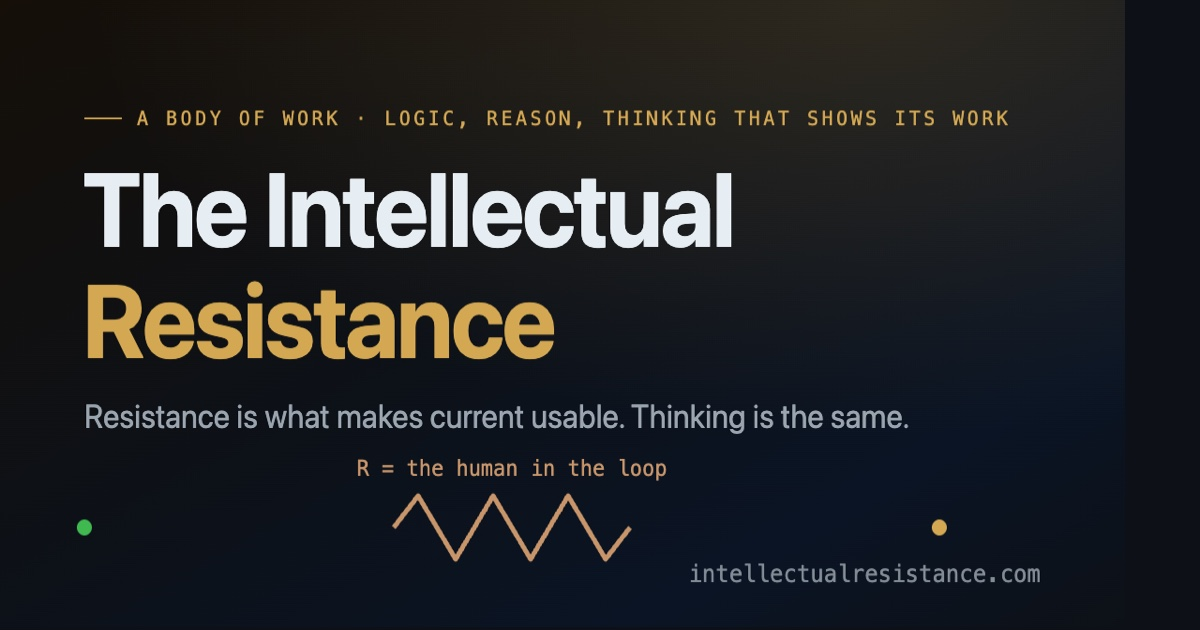
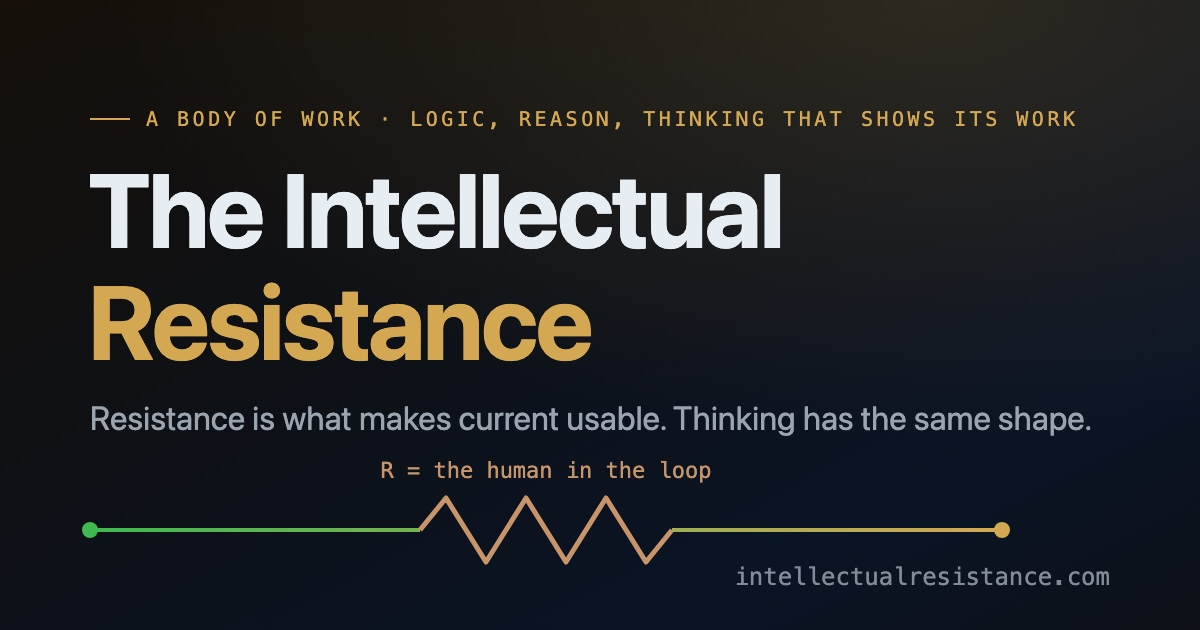
The doorway: the opening marked as an analogy, its wires drawn, Organic Computer described as a datasheet (#10)
The opening says 'Thinking has the same shape.', gains two sentences on an unterminated line, and carries the status label 'Analogy: nothing is derived from it'. The drawing's two wires paint. The Organic Computer card, map line, reference and both text files describe it as a datasheet. The footer carries a dated line linking entry C-20261115-02 in the family corrections index. The social card carries the new sentence and its wires.

diff --git a/index.html b/index.html
@@ -22,7 +22,7 @@
 <meta property="og:url" content="https://intellectualresistance.com/">
 <meta property="og:title" content="The Intellectual Resistance · thinking that shows its work">
 <meta property="og:description" content="A body of work on logic, reason, and thinking that shows its work: preserving signal integrity in a civilization that transmits faster than it verifies.">
-<meta property="og:image" content="https://intellectualresistance.com/assets/og-card.jpg">
+<meta property="og:image" content="https://intellectualresistance.com/assets/og-card.jpg?v=20261115">
 <meta property="og:image:width" content="1200">
 <meta property="og:image:height" content="630">
 <meta property="og:image:type" content="image/jpeg">
@@ -31,7 +31,7 @@
 <meta name="twitter:card" content="summary_large_image">
 <meta name="twitter:title" content="The Intellectual Resistance · thinking that shows its work">
 <meta name="twitter:description" content="Logic, reason, and thinking that shows its work. The Verification Principle, Carrier Color, candidate control levers, the Tetrasemaphore and Star-Centric Transport, each with its math.">
-<meta name="twitter:image" content="https://intellectualresistance.com/assets/og-card.jpg">
+<meta name="twitter:image" content="https://intellectualresistance.com/assets/og-card.jpg?v=20261115">
 <meta name="twitter:image:alt" content="A resistor in a circuit over a dark field: the Intellectual Resistance mark.">
 <style>
 /* ============================================================
@@ -456,13 +456,15 @@ footer .tagline{max-width:60ch;margin:0 auto var(--s4)}
   <div class="container hero-inner">
     <div class="eyebrow">A body of work &middot; logic, reason, thinking that shows its work</div>
     <h1>Resistance is the<br><span class="accent">whole point.</span></h1>
-    <p class="lead">In a circuit, resistance is what makes current <em>usable</em>: it sets the terms and drops the voltage to something that won't burn the system down. Thinking is the same. <b>Friction, doubt, and the deliberate pause before the answer are not the obstacle. They are the work.</b></p>
+    <p class="lead">In a circuit, resistance is what makes current <em>usable</em>: it sets the terms and drops the voltage to something that won't burn the system down. Thinking has the same shape. <b>Friction, doubt, and the deliberate pause before the answer are not the obstacle. They are the work.</b></p>
+    <p class="lead">And a line with no resistor at its end doesn't carry more signal - it rings: the wave reflects, returns over what is still arriving, and the receiver cannot tell the message from its own echo. That is what a mind does with its own prior when nothing stops it.</p>
+    <p><span class="status st-hypothesis">Analogy: nothing is derived from it</span></p>
     <p class="turn">The <b>Intellectual Resistance</b> is the umbrella over a set of frameworks for one problem: how to preserve signal in a civilization that has learned to transmit far faster than it can verify. Each is stated with its math, and labeled honestly for exactly how far it has been proven.</p>
 
     <!-- resistor schematic -->
     <svg class="hero-circuit" viewBox="0 0 760 110" role="img" aria-label="A resistor in a circuit: a raw problem enters as current, passes through the human in the loop, and exits as a usable answer.">
       <defs>
-        <linearGradient id="wire" x1="0" y1="0" x2="1" y2="0">
+        <linearGradient id="wire" gradientUnits="userSpaceOnUse" x1="24" y1="55" x2="736" y2="55">
           <stop offset="0" stop-color="#3fb950"/><stop offset="1" stop-color="#d4a853"/>
         </linearGradient>
       </defs>
@@ -569,7 +571,7 @@ footer .tagline{max-width:60ch;margin:0 auto var(--s4)}
       <article class="fwcard">
         <span class="num">06</span>
         <h3><a href="#applied">Applied: DNS Tool, Calibration Scope &amp; Organic Computer</a></h3>
-        <p>The principle, shipped. DNS Tool runs the verification engine on real infrastructure; Calibration Scope benchmarks what minds (silicon and carbon) can actually do; Organic Computer offers the human substrate directly.</p>
+        <p>The principle, shipped. DNS Tool runs the verification engine on real infrastructure; Calibration Scope benchmarks what minds (silicon and carbon) can actually do; Organic Computer is a datasheet for the human brain.</p>
         <div class="foot"><span class="status st-shipped">Shipped</span><a class="cardlink" href="#applied">read &rarr;</a></div>
       </article>
     </div>
@@ -853,9 +855,9 @@ footer .tagline{max-width:60ch;margin:0 auto var(--s4)}
         <a class="visit" href="https://calibrationscope.com" target="_blank" rel="noopener">Open Calibration Scope &#8599;</a>
       </div>
       <div class="project oc">
-        <div class="kicker">Deep thinking as a service</div>
+        <div class="kicker">Datasheet for the human brain</div>
         <h3>Organic Computer</h3>
-        <p>The human substrate, offered directly. Organic Computer specs the human mind like hardware (an exaflop-scale reasoner<sup><a href="#r15">[15]</a></sup> running on ~20&nbsp;W and a glass of water) and sells the scarcest resource in business: a single mind that will hold one hard problem for hours and reason to its foundations. It is the Intellectual Resistance turned into a practice: metacognition first, AI as instrument never author, every figure sourced.</p>
+        <p>The principle, pointed at the hardware you already own. Organic Computer specs the human brain the way hardware is specced (an exaflop-scale reasoner<sup><a href="#r15">[15]</a></sup> running on ~20&nbsp;W and a glass of water) and sets it beside an exascale supercomputer. The premise is playful. The figures are not. Metacognition first, AI as instrument never author, every figure sourced.</p>
         <a class="visit" href="https://organiccomputer.me" target="_blank" rel="noopener">Open Organic Computer &#8599;</a>
       </div>
     </div>
@@ -904,7 +906,7 @@ footer .tagline{max-width:60ch;margin:0 auto var(--s4)}
       <li id="r3"><span class="srcbadge sb-acad">Bayesian epistemics</span>The &ldquo;regularity&rdquo; requirement that contingent priors lie strictly in (0,1) so that conditionalization can revise them is standard in Bayesian confirmation theory; a prior of 0 or 1 is a fixed point of Bayes&rsquo; rule. See R. Carnap, <em>Logical Foundations of Probability</em> (1950); standard treatments of conditionalization. <a href="https://plato.stanford.edu/entries/epistemology-bayesian/" target="_blank" rel="noopener">Stanford Encyclopedia of Philosophy &#8599;</a></li>
       <li id="r4"><span class="srcbadge sb-acad">Four-valued logic (distinction)</span>N. D. Belnap, &ldquo;A Useful Four-Valued Logic,&rdquo; in <em>Modern Uses of Multiple-Valued Logic</em>, Reidel, 1977. Cited here only to mark the boundary: the Tetrasemaphore shares V&#8324; as an abstract group skeleton but is a group of moves, not a many-valued logic. <a href="https://doi.org/10.1007/978-94-010-1161-7_2" target="_blank" rel="noopener">doi:10.1007/978-94-010-1161-7_2 &#8599;</a></li>
       <li id="r5"><span class="srcbadge sb-self">Project</span>DNS Tool: deployed OSINT domain &amp; email-security intelligence platform. <a href="https://dnstool.it-help.tech" target="_blank" rel="noopener">dnstool.it-help.tech &#8599;</a> · source: <a href="https://github.com/IT-Help-San-Diego/dns-tool-intel" target="_blank" rel="noopener">github.com/IT-Help-San-Diego &#8599;</a></li>
-      <li id="r6"><span class="srcbadge sb-self">Project</span>Organic Computer: the human mind spec'd as hardware; sustained deliberate reasoning as a service. <a href="https://organiccomputer.me" target="_blank" rel="noopener">organiccomputer.me &#8599;</a></li>
+      <li id="r6"><span class="srcbadge sb-self">Project</span>Organic Computer: a datasheet for the human brain, specified the way hardware is specified, with its sources listed. <a href="https://organiccomputer.me" target="_blank" rel="noopener">organiccomputer.me &#8599;</a></li>
       <li id="r7"><span class="srcbadge sb-acad">Primary &middot; peer-reviewed</span>D. M. Kahan, E. Peters, E. C. Dawson &amp; P. Slovic, &ldquo;Motivated numeracy and enlightened self-government,&rdquo; <em>Behavioural Public Policy</em>, vol. 1, no. 1, pp. 54&ndash;86, 2017: the empirical basis for identity-protective cognition. <a href="https://doi.org/10.1017/bpp.2016.2" target="_blank" rel="noopener">doi:10.1017/bpp.2016.2 &#8599;</a></li>
       <li id="r8"><span class="srcbadge sb-self">Companion paper</span>C. J. Balboa, <em>The Belief Machine: How Human Identity Defense, AI Sycophancy, and Unaudited Targeting Systems Became One Problem</em>, SSRN working paper 6722059, 2026. ORCID 0009-0000-5237-9065. <a href="https://ssrn.com/abstract=6722059" target="_blank" rel="noopener">ssrn.com/abstract=6722059 &#8599;</a></li>
       <li id="r9"><span class="srcbadge sb-self">Framework release</span>C. J. Balboa, <em>The Tetrasemaphore</em>, version 1.0.0 (four semaphores, Lean proofs, public note and method), Zenodo, 2026. <a href="https://doi.org/10.5281/zenodo.23575816" target="_blank" rel="noopener">doi:10.5281/zenodo.23575816 &#8599;</a></li>
@@ -925,6 +927,7 @@ footer .tagline{max-width:60ch;margin:0 auto var(--s4)}
   <div class="container">
     <p class="mono">THE INTELLECTUAL RESISTANCE · intellectualresistance.com</p>
     <p class="tagline">Logic, reason, and thinking that shows its work. Built in a scientific design language:<br>golden-ratio layout, self-contained assets, strict content-security policy. Every claim labeled for how far it's proven.</p>
+    <p class="tagline">Corrected on 15 November 2026 (UTC): the opening of this page changed in one phrase and gained two sentences and a status label; the two wires of its drawing, which did not show, now show; and the description of Organic Computer was replaced in three places. The correction is entry C-20261115-02 in the family <a href="https://www.it-help.tech/corrections/#c-20261115-02" target="_blank" rel="noopener">corrections index &#8599;</a>.</p>
 
     <div class="ftr-grid">
       <div class="ftr-cell">
